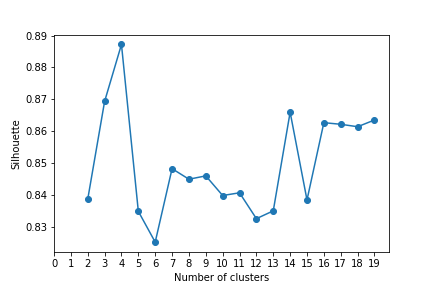
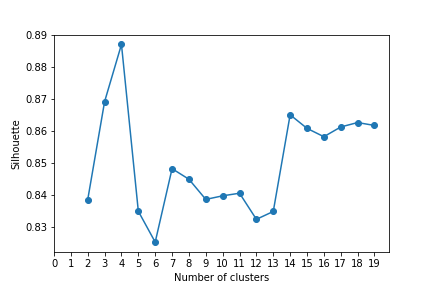
Fixed some mistake when clustering

diff --git a/src/features/build_features_Accelerometer.py b/src/features/build_features_Accelerometer.py
@@ -5,6 +5,7 @@ from numpy import corrcoef, transpose, arange
 from pylab import pcolor, show, colorbar, xticks, yticks, savefig
 import sklearn.neighbors
 from scipy import cluster
+from sklearn import preprocessing 
 
 # Read the data and load it into memory
 df = pd.read_csv("../../data/raw/T2.csv")
@@ -80,17 +81,21 @@ show()
 # Besides, it has little sense thinking that the measures of different axis are redundant.
 
 # Now we plot a dendogram.
+scaler = preprocessing.MinMaxScaler()
+datanorm = scaler.fit_transform(df_T)
+
 dist = sklearn.neighbors.DistanceMetric.get_metric('euclidean')
-matsim = dist.pairwise(transpose(df_T))
+matsim = dist.pairwise(transpose(datanorm))
 clusters = cluster.hierarchy.linkage(matsim, method = 'complete')
 cluster.hierarchy.dendrogram(clusters, color_threshold=50)
 plt.savefig("../../reports/figures/Features_Dendogram_Day1")
 plt.show()
 
-# By looking at the dendogram, we can see that columns 3, 4 and 5 have very similar values
-# This means we can remove two of the covariance columns, since their information is very similar.
-df_T = df_T.drop("AccelerometerStat_COV_y_x", axis = 1)
-df_T = df_T.drop("AccelerometerStat_COV_z_y", axis = 1)
+# By looking at the dendogram, we can see that columns 0, 1, 2 and 12 have very similar values
+# This means we can remove the variances of the accelerometer, since their information is very similar.
+df_T = df_T.drop("AccelerometerStat_x_VAR", axis = 1)
+df_T = df_T.drop("AccelerometerStat_y_VAR", axis = 1)
+df_T = df_T.drop("AccelerometerStat_z_VAR", axis = 1)
 
 # Save processed data 
 df_T.to_csv('../../data/processed/T2_Accelerometer.csv', index=False)
